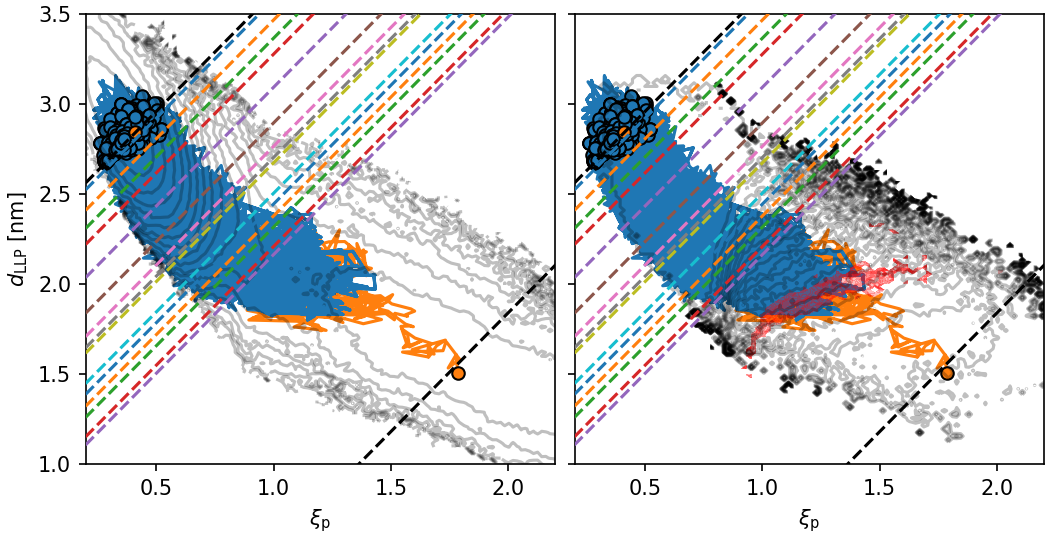
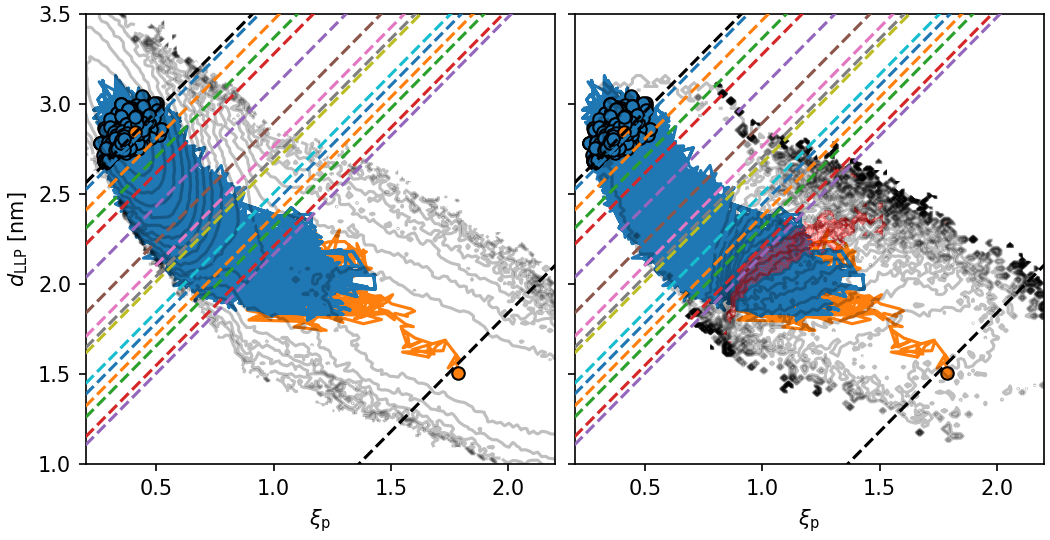
update

Changed region(s): [[0.6705, 0.3852, 0.8838, 0.6815]]

diff --git a/pore_formation/scripts/progress.py b/pore_formation/scripts/progress.py
@@ -33,12 +33,11 @@ for c0 in c:
     axes[1].plot(x0, -y0, ls="--", zorder=3000, color="k")
 
 axes[0].contour(x, y, ufree, colors='black', alpha=0.25, zorder=2000, levels=20)
-axes[1].contour(x, y, commi, colors='black', alpha=0.25, zorder=2000, levels=20)
 fifty_mask = (0.40 < commi) & (commi < 0.60)
 fifty_mask &= np.isfinite(commi)
 avg_hist_fifty = commi.copy()
 avg_hist_fifty[~fifty_mask] = np.inf
-axes[1].contourf(y, x, avg_hist_fifty, colors='r', alpha=0.25, zorder=100, levels=20)
+axes[0].contourf(x, y, avg_hist_fifty, colors='r', alpha=0.25, zorder=100, levels=20)
 
 
 x, y, xs, ys = [], [], [], []
